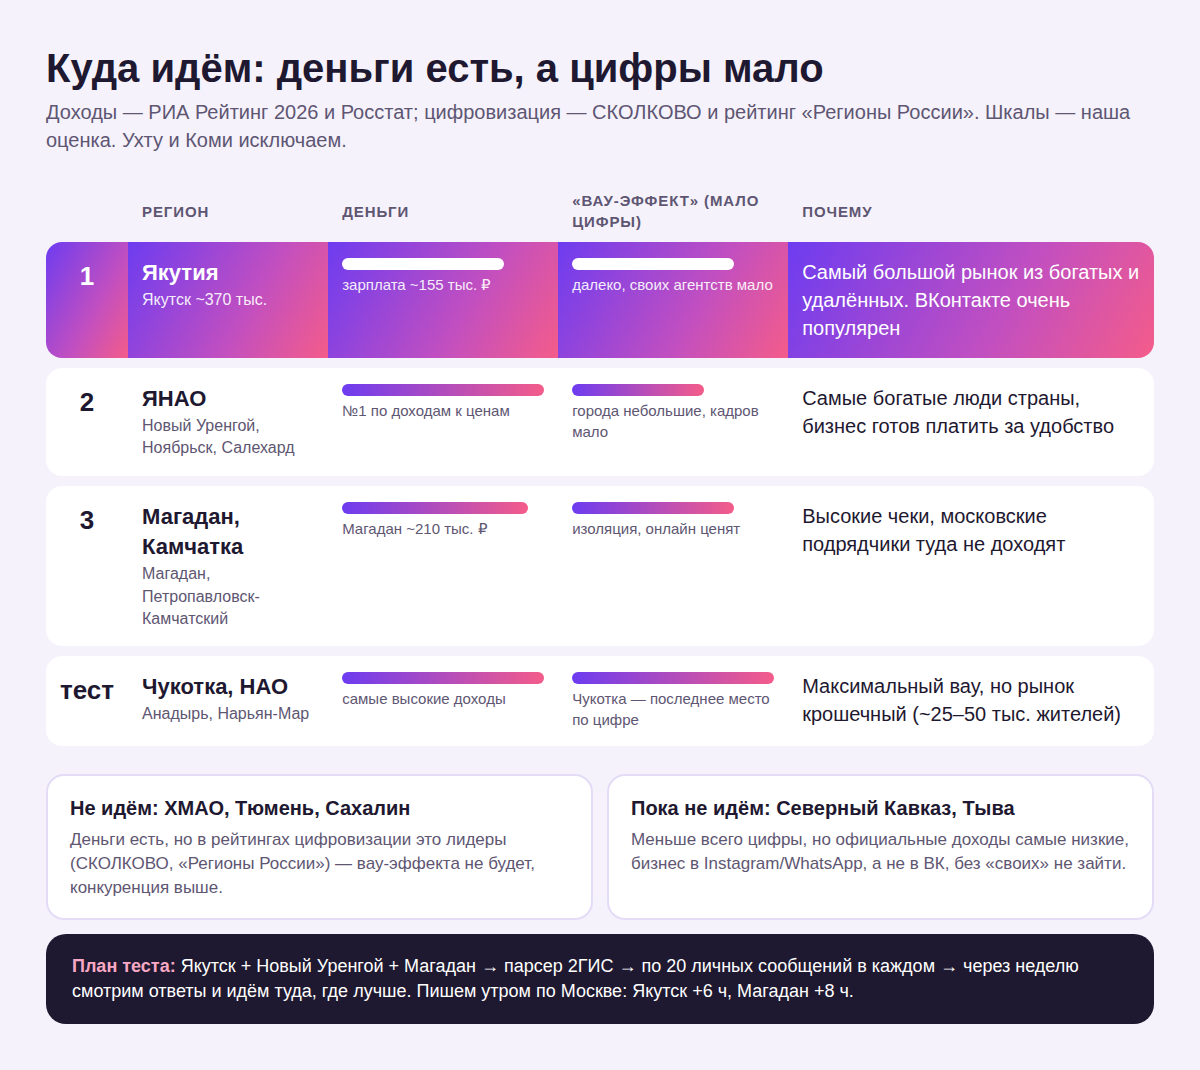
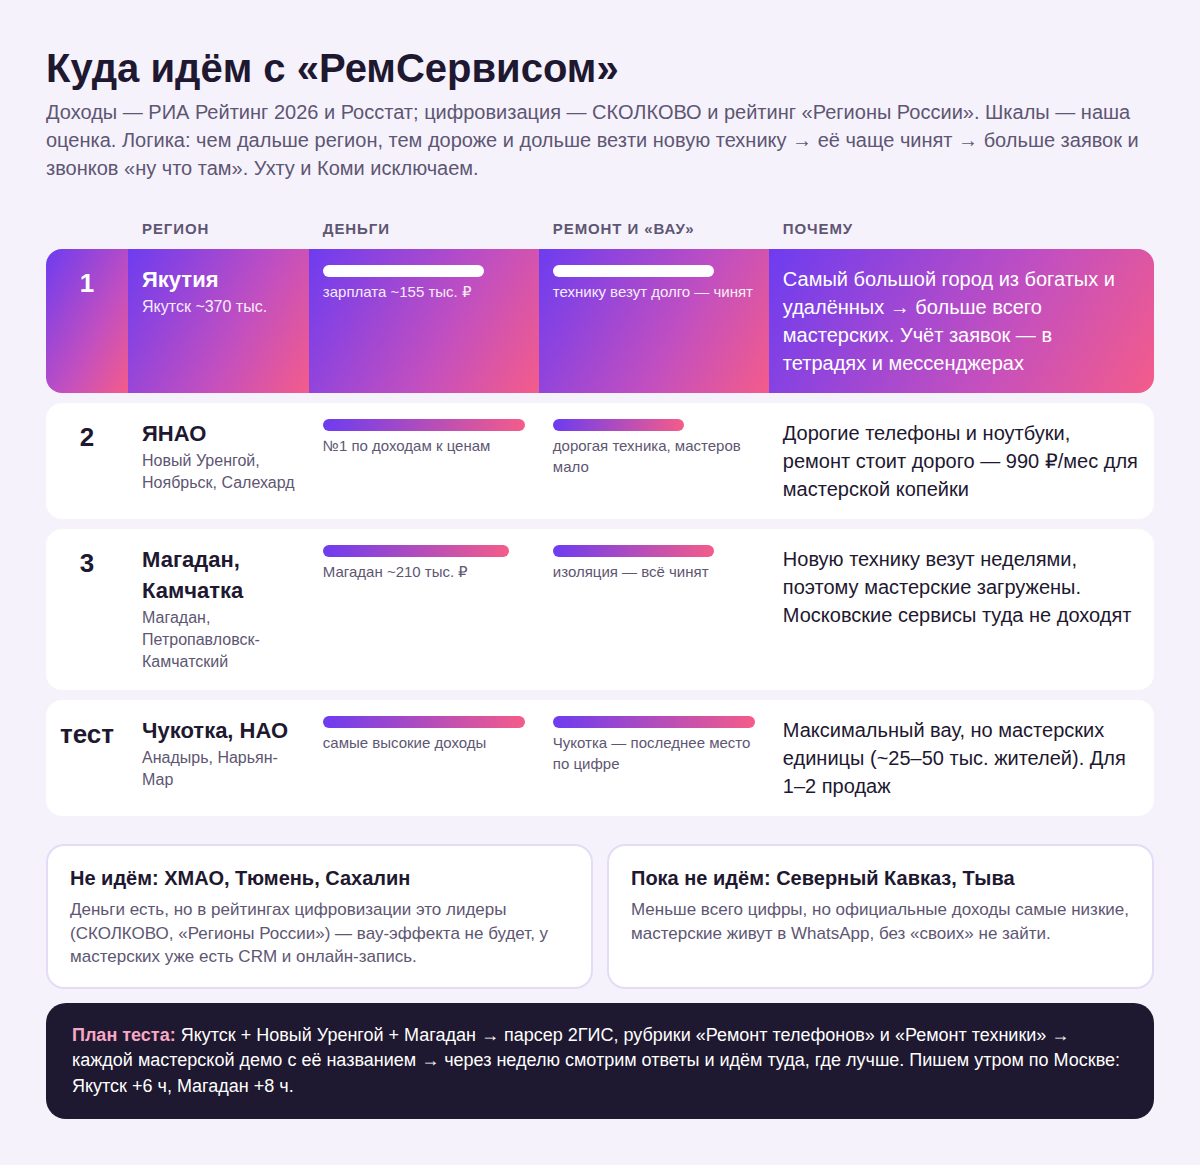
Регионы: анализ под РемСервис
Claude-Session: https://claude.ai/code/session_01P2UFw9tTkDcF63ah4eNZqX

diff --git a/regions/r.html b/regions/r.html
@@ -15,18 +15,18 @@ td:last-child{border-radius:0 16px 16px 0}
 .box{background:#fff;border-radius:18px;padding:18px 22px;border:2px solid #E4DCF7}.box h3{font-weight:800;font-size:20px;margin-bottom:6px}.box p{font-size:17px;color:#5E5672}
 .plan{margin-top:14px;background:#1E1830;color:#fff;border-radius:20px;padding:20px 26px;font-size:18px}.plan b{color:#F9A8C4}
 </style></head><body>
-<h1>Куда идём: деньги есть, а цифры мало</h1>
-<div class="sub">Доходы — РИА Рейтинг 2026 и Росстат; цифровизация — СКОЛКОВО и рейтинг «Регионы России». Шкалы — наша оценка. Ухту и Коми исключаем.</div>
+<h1>Куда идём с «РемСервисом»</h1>
+<div class="sub">Доходы — РИА Рейтинг 2026 и Росстат; цифровизация — СКОЛКОВО и рейтинг «Регионы России». Шкалы — наша оценка. Логика: чем дальше регион, тем дороже и дольше везти новую технику → её чаще чинят → больше заявок и звонков «ну что там». Ухту и Коми исключаем.</div>
 <table>
-<tr><th></th><th>Регион</th><th style="width:230px">Деньги</th><th style="width:230px">«Вау-эффект» (мало цифры)</th><th>Почему</th></tr>
-<tr class="top"><td>1</td><td class="r"><b>Якутия</b><small>Якутск ~370 тыс.</small></td><td><div class="bar" style="width:80%"></div><div class="lbl">зарплата ~155 тыс. ₽</div></td><td><div class="bar" style="width:80%"></div><div class="lbl">далеко, своих агентств мало</div></td><td>Самый большой рынок из богатых и удалённых. ВКонтакте очень популярен</td></tr>
-<tr><td>2</td><td class="r"><b>ЯНАО</b><small>Новый Уренгой, Ноябрьск, Салехард</small></td><td><div class="bar" style="width:100%"></div><div class="lbl">№1 по доходам к ценам</div></td><td><div class="bar" style="width:65%"></div><div class="lbl">города небольшие, кадров мало</div></td><td>Самые богатые люди страны, бизнес готов платить за удобство</td></tr>
-<tr><td>3</td><td class="r"><b>Магадан, Камчатка</b><small>Магадан, Петропавловск-Камчатский</small></td><td><div class="bar" style="width:92%"></div><div class="lbl">Магадан ~210 тыс. ₽</div></td><td><div class="bar" style="width:80%"></div><div class="lbl">изоляция, онлайн ценят</div></td><td>Высокие чеки, московские подрядчики туда не доходят</td></tr>
-<tr><td>тест</td><td class="r"><b>Чукотка, НАО</b><small>Анадырь, Нарьян-Мар</small></td><td><div class="bar" style="width:100%"></div><div class="lbl">самые высокие доходы</div></td><td><div class="bar" style="width:100%"></div><div class="lbl">Чукотка — последнее место по цифре</div></td><td>Максимальный вау, но рынок крошечный (~25–50 тыс. жителей)</td></tr>
+<tr><th></th><th>Регион</th><th style="width:230px">Деньги</th><th style="width:230px">Ремонт и «вау»</th><th>Почему</th></tr>
+<tr class="top"><td>1</td><td class="r"><b>Якутия</b><small>Якутск ~370 тыс.</small></td><td><div class="bar" style="width:80%"></div><div class="lbl">зарплата ~155 тыс. ₽</div></td><td><div class="bar" style="width:80%"></div><div class="lbl">технику везут долго — чинят</div></td><td>Самый большой город из богатых и удалённых → больше всего мастерских. Учёт заявок — в тетрадях и мессенджерах</td></tr>
+<tr><td>2</td><td class="r"><b>ЯНАО</b><small>Новый Уренгой, Ноябрьск, Салехард</small></td><td><div class="bar" style="width:100%"></div><div class="lbl">№1 по доходам к ценам</div></td><td><div class="bar" style="width:65%"></div><div class="lbl">дорогая техника, мастеров мало</div></td><td>Дорогие телефоны и ноутбуки, ремонт стоит дорого — 990 ₽/мес для мастерской копейки</td></tr>
+<tr><td>3</td><td class="r"><b>Магадан, Камчатка</b><small>Магадан, Петропавловск-Камчатский</small></td><td><div class="bar" style="width:92%"></div><div class="lbl">Магадан ~210 тыс. ₽</div></td><td><div class="bar" style="width:80%"></div><div class="lbl">изоляция — всё чинят</div></td><td>Новую технику везут неделями, поэтому мастерские загружены. Московские сервисы туда не доходят</td></tr>
+<tr><td>тест</td><td class="r"><b>Чукотка, НАО</b><small>Анадырь, Нарьян-Мар</small></td><td><div class="bar" style="width:100%"></div><div class="lbl">самые высокие доходы</div></td><td><div class="bar" style="width:100%"></div><div class="lbl">Чукотка — последнее место по цифре</div></td><td>Максимальный вау, но мастерских единицы (~25–50 тыс. жителей). Для 1–2 продаж</td></tr>
 </table>
 <div class="no">
-<div class="box"><h3>Не идём: ХМАО, Тюмень, Сахалин</h3><p>Деньги есть, но в рейтингах цифровизации это лидеры (СКОЛКОВО, «Регионы России») — вау-эффекта не будет, конкуренция выше.</p></div>
-<div class="box"><h3>Пока не идём: Северный Кавказ, Тыва</h3><p>Меньше всего цифры, но официальные доходы самые низкие, бизнес в Instagram/WhatsApp, а не в ВК, без «своих» не зайти.</p></div>
+<div class="box"><h3>Не идём: ХМАО, Тюмень, Сахалин</h3><p>Деньги есть, но в рейтингах цифровизации это лидеры (СКОЛКОВО, «Регионы России») — вау-эффекта не будет, у мастерских уже есть CRM и онлайн-запись.</p></div>
+<div class="box"><h3>Пока не идём: Северный Кавказ, Тыва</h3><p>Меньше всего цифры, но официальные доходы самые низкие, мастерские живут в WhatsApp, без «своих» не зайти.</p></div>
 </div>
-<div class="plan"><b>План теста:</b> Якутск + Новый Уренгой + Магадан → парсер 2ГИС → по 20 личных сообщений в каждом → через неделю смотрим ответы и идём туда, где лучше. Пишем утром по Москве: Якутск +6 ч, Магадан +8 ч.</div>
+<div class="plan"><b>План теста:</b> Якутск + Новый Уренгой + Магадан → парсер 2ГИС, рубрики «Ремонт телефонов» и «Ремонт техники» → каждой мастерской демо с её названием → через неделю смотрим ответы и идём туда, где лучше. Пишем утром по Москве: Якутск +6 ч, Магадан +8 ч.</div>
 </body></html>
